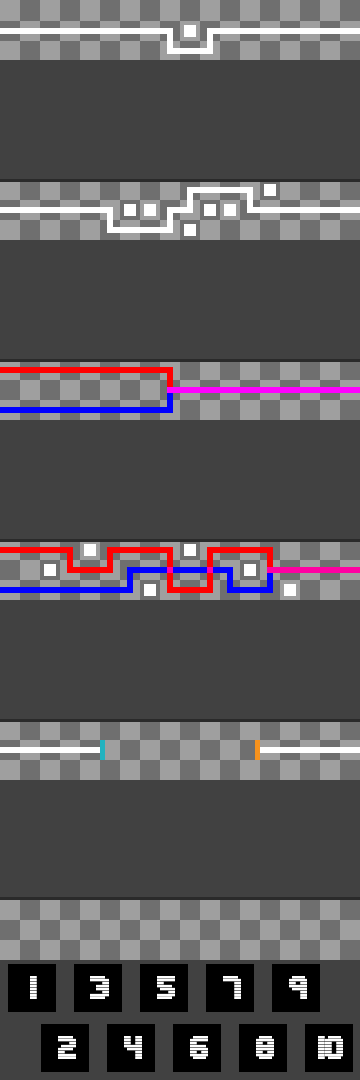
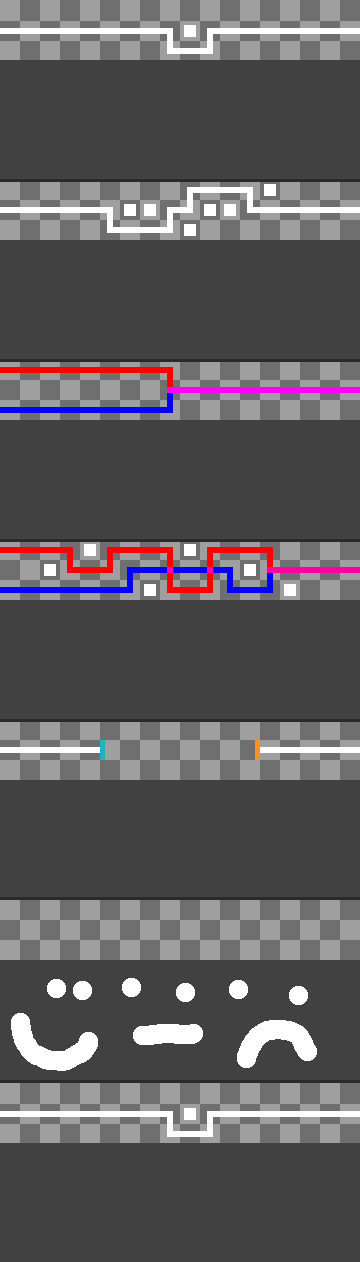
Added 2 new levels

diff --git a/assets/data/5/tiles.tsx b/assets/data/5/tiles.tsx
@@ -1,0 +1,4 @@
+<?xml version="1.0" encoding="UTF-8"?>
+<tileset name="Tiles" tilewidth="48" tileheight="48">
+ <image source="../../images/Tiles.png" width="960" height="192"/>
+</tileset>
